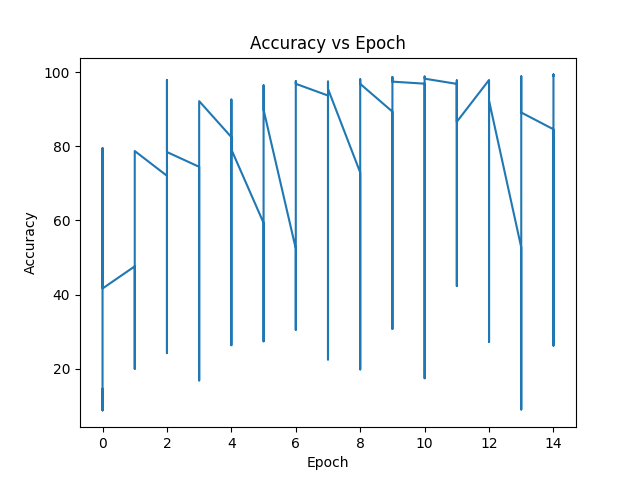
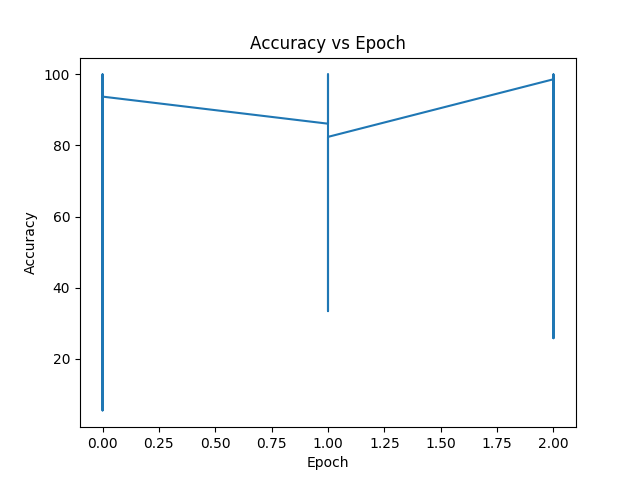
custom loss function results 3 epoch batchsize of 1

diff --git a/map2path.py b/map2path.py
@@ -37,7 +37,7 @@ def pixel_wise(y_true,y_pred):
     #elem_float = K.cast(elem_bool,dtype='float32')
     #L1_gen = K.sum(elem_float)
 
-    return K.sum(K.abs(y_true[0,:,:,1] - y_pred[0,:,:,1]))
+    return 0.01*K.sum(K.abs(y_true[0,:,:,1] - y_pred[0,:,:,1]))
 
 class Pix2Pix():
     def __init__(self):
@@ -238,8 +238,9 @@ class Pix2Pix():
                  #   accuracy = d_loss[1]
 
                 # If at save interval => save generated image samples
-                if epoch % sample_interval == 0 and batch_i == 1:
-                   self.sample_images(epoch, batch_i)
+                #if epoch % sample_interval == 0 and batch_i == 1:
+                if batch_i % sample_interval == 0: 
+                    self.sample_images(epoch, batch_i)
 
             #if accuracy >= accuracy_prev:
              #   if os.path.exists("saved_model/gen_model%d_line.h5" % (epoch-1)):
@@ -303,7 +304,7 @@ class Pix2Pix():
 if __name__ == '__main__':
     #train
     gan = Pix2Pix()
-    gan.train(epochs=1, batch_size=1, sample_interval=1)
+    gan.train(epochs=3, batch_size=1, sample_interval=200)
 
     """
     model = load_model("saved_model/gen_model_line.h5")
